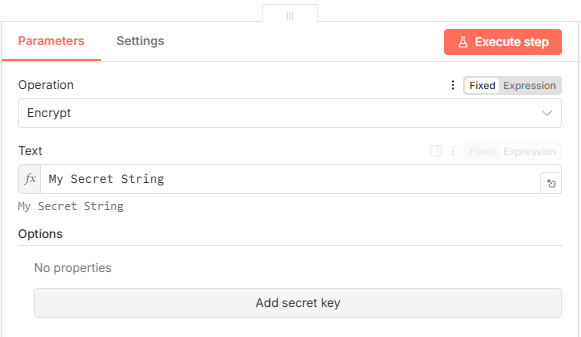
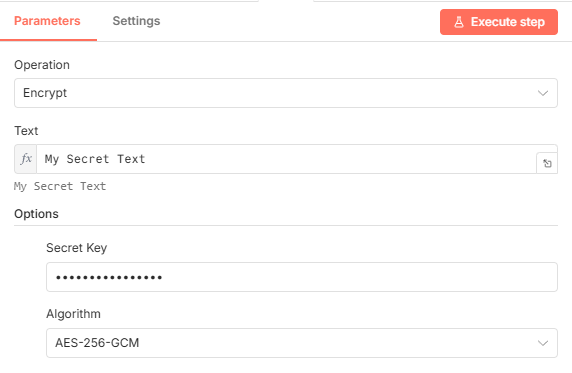
feat: add AES-256-GCM support and update README
Add options to choose algorithm AES-256-GCM and make it as default. GCM is considered more secure than CBC mode and is widely adopted for its performance

diff --git a/nodes/TextEncryptor/TextEncryptor.node.ts b/nodes/TextEncryptor/TextEncryptor.node.ts
@@ -1,8 +1,9 @@
 import type { IExecuteFunctions, INodeExecutionData, INodeType, INodeTypeDescription } from 'n8n-workflow';
 import { NodeConnectionTypes, NodeOperationError } from 'n8n-workflow';
-import { encryptString, decryptString } from './functions';
+import { encryptString, decryptString, Algorithm } from './functions';
 
 const DEFAULT_SECRET_KEY = 'FOmd23PkX0QxHJc7S59sEjg6FmaRmCef';
+const DEFAULT_ALGORITHM = 'aes-256-gcm';
 
 export class TextEncryptor implements INodeType {
 	description: INodeTypeDescription = {
@@ -32,13 +33,13 @@ export class TextEncryptor implements INodeType {
 						name: 'Encrypt',
 						value: 'encrypt',
 						description: 'Encrypt the provided text',
-						action: 'Encrypt the provided text',
+						action: 'Encrypt text',
 					},
 					{
 						name: 'Decrypt',
 						value: 'decrypt',
 						description: 'Decrypt the provided text',
-						action: 'Decrypt the provided text',
+						action: 'Decrypt text',
 					}
 				],
 				default: 'encrypt',
@@ -57,7 +58,7 @@ export class TextEncryptor implements INodeType {
 				displayName: 'Options',
 				name: 'options',
 				type: 'collection',
-				placeholder: 'Add secret key',
+				placeholder: 'Add options',
 				default: {},
 				options: [
 					{
@@ -71,6 +72,25 @@ export class TextEncryptor implements INodeType {
 						},
 						description: 'The secret key used for encryption/decryption. Must be the same for both operations. Leave empty to use default key',
 					},
+					{
+						displayName: 'Algorithm',
+						name: 'algorithm',
+						type: 'options',
+						options: [
+							{
+								name: 'AES-256-GCM',
+								value: 'aes-256-gcm',
+								description: 'AES with a 256-bit key in Galois/Counter Mode (GCM)',
+							},
+							{
+								name: 'AES-256-CBC',
+								value: 'aes-256-cbc',
+								description: 'AES with a 256-bit key in Cipher Block Chaining (CBC) mode',
+							},
+						],
+						default: 'aes-256-gcm',
+						description: 'The encryption algorithm to use. Must be the same for both encrypt and decrypt operations.',
+					}
 				]
 			},
 		],
@@ -81,18 +101,21 @@ export class TextEncryptor implements INodeType {
 
 		let item: INodeExecutionData;
 		let text: string;
+		let secretKey: string;
+		let algorithm: Algorithm;
 
 		const returnItems: INodeExecutionData[] = [];
-		const options = this.getNodeParameter('options', 0) as { secretKey?: string };
+		const options = this.getNodeParameter('options', 0) as { secretKey?: string, algorithm?: string };
 		const operation = this.getNodeParameter('operation', 0) as string;
-		const secretKey = options.secretKey || DEFAULT_SECRET_KEY;
 
 		for (let itemIndex = 0; itemIndex < items.length; itemIndex++) {
 			try {
 				text = this.getNodeParameter('text', itemIndex, '') as string;
+				secretKey = options.secretKey || DEFAULT_SECRET_KEY;
+				algorithm = options.algorithm as Algorithm || DEFAULT_ALGORITHM;
 				item = items[itemIndex];
 
-				const result = operation === 'encrypt' ? encryptString(text, secretKey) : decryptString(text, secretKey);
+				const result = operation === 'encrypt' ? encryptString(text, secretKey, algorithm) : decryptString(text, secretKey, algorithm);
 
 				item.json = {
 					original: text,
@@ -102,19 +125,19 @@ export class TextEncryptor implements INodeType {
 				returnItems.push(item);
 			} catch (error) {
 				// Enhance error messages for common issues
-				if (error.code === 'ERR_OSSL_BAD_DECRYPT' && operation === 'decrypt') {
-					error.message = 'Invalid secret key';
-				} else if (error.code === 'ERR_CRYPTO_INVALID_IV' && operation === 'decrypt') {
-					error.message = 'Encrypted text is invalid or corrupted.';
+				if (operation === 'decrypt') {
+					if (error.code === 'ERR_OSSL_BAD_DECRYPT' || error.code === 'ERR_CRYPTO_INVALID_IV' || error.message.includes('Unsupported state or unable to authenticate data')) {
+						error.message = 'Decryption failed. Incorrect secret key or corrupted/invalid encrypted text';
+					}
 				}
-				
+
 				if (this.continueOnFail()) {
 					returnItems.push({
 						json: { error: (error as Error).message },
 						pairedItem: { item: itemIndex },
 					});
 					continue;
-				} 
+				}
 
 				// Adding `itemIndex` allows other workflows to handle this error
 				if (error.context) {
@@ -123,7 +146,7 @@ export class TextEncryptor implements INodeType {
 					error.context.itemIndex = itemIndex;
 					throw error;
 				}
-				
+
 				throw new NodeOperationError(this.getNode(), error, {
 					itemIndex,
 				});

diff --git a/nodes/TextEncryptor/functions.ts b/nodes/TextEncryptor/functions.ts
@@ -1,26 +1,65 @@
 import { randomBytes, createCipheriv, createDecipheriv, createHash } from 'node:crypto';
 
-const ALGORITHM = 'aes-256-cbc';
+export type Algorithm = 'aes-256-gcm' | 'aes-256-cbc';
+
+export function encryptString(plainText: string, secretKey = '', algorithm: Algorithm) {
+    const key32bytes = forceTo32bytes(secretKey);
+    
+    if (algorithm === 'aes-256-cbc') {
+        const iv = randomBytes(16);
+        const cipher = createCipheriv(algorithm, key32bytes, iv);
+        let encrypted = cipher.update(plainText, 'utf8', 'hex');
+        encrypted += cipher.final('hex');
+        return iv.toString('hex') + encrypted;
+    }
+
+    // Default to aes-256-gcm
+    const iv = randomBytes(12); // GCM recommends a 12-byte (96-bit) IV for security and performance
+    const cipher = createCipheriv(algorithm, key32bytes, iv);
+    let ciphertext = cipher.update(plainText, 'utf8');
+    ciphertext = Buffer.concat([ciphertext, cipher.final()]);
+    const authTag = cipher.getAuthTag();
+    const combined = Buffer.concat([iv, ciphertext, authTag]);
+    return combined.toString('hex');
+}
+
+export function decryptString(encryptedText: string, secretKey = '', algorithm: Algorithm) {
+    const key32bytes = forceTo32bytes(secretKey);
+    const combined = Buffer.from(encryptedText, 'hex');
+
+    if (algorithm === 'aes-256-cbc') {
+        const iv = combined.subarray(0, 16);
+        const encryptedTextBuffer = combined.subarray(16);
+        const decipher = createDecipheriv(algorithm, key32bytes, iv);
+        const decryptedBuffer = Buffer.concat([
+            decipher.update(encryptedTextBuffer),
+            decipher.final()
+        ]);
+        return decryptedBuffer.toString('utf8');
+    }
+
+    // Default to aes-256-gcm
+    // Define lengths
+    const ivLength = 12; // 12 bytes for IV
+    const authTagLength = 16; // GCM auth tag is typically 16 bytes (128 bits)
+
+    // Slice the buffer to get IV, ciphertext, and auth tag
+    const iv = combined.subarray(0, ivLength);
+    const ciphertext = combined.subarray(ivLength, combined.length - authTagLength);
+    const authTag = combined.subarray(combined.length - authTagLength);
+
+    const decipher = createDecipheriv(algorithm, key32bytes, iv);
+    // Set the authentication tag before decryption
+    decipher.setAuthTag(authTag);
+
+    // Decrypt the ciphertext
+    let plaintext = decipher.update(ciphertext);
+    plaintext = Buffer.concat([plaintext, decipher.final()]);
+
+    return plaintext.toString('utf8');
+}
 
 // Force the key to be 32 bytes regardless of user input
 function forceTo32bytes(key: string) {
-    return createHash('sha256').update(key).digest(); 
-}
-
-export function encryptString(text: string, secretKey = '') {
-    const iv = randomBytes(16);
-    const cipher = createCipheriv(ALGORITHM, forceTo32bytes(secretKey), iv);
-    let encrypted = cipher.update(text, 'utf8', 'hex');
-    encrypted += cipher.final('hex');
-    return iv.toString('hex') + ':' + encrypted;
-}
-
-export function decryptString(encryptedText: string, secretKey = '') {
-    const textParts = encryptedText.split(':');
-    const ivHex = textParts.shift();
-    const iv = Buffer.from(ivHex as string, 'hex');
-    const encryptedData = Buffer.from(textParts.join(':'), 'hex');
-    const decipher = createDecipheriv(ALGORITHM, forceTo32bytes(secretKey), iv);
-    const decryptedBuffer = Buffer.concat([decipher.update(encryptedData), decipher.final()]);
-    return decryptedBuffer.toString('utf8');
+    return createHash('sha256').update(key).digest();
 }

diff --git a/README.md b/README.md
@@ -1,6 +1,6 @@
 # n8n-nodes-text-encrypt
 
-This is an n8n community node. It lets you encrypt and decrypt text using node crypto module with AES-256-CBC algorithm.
+This is an n8n community node. It lets you encrypt and decrypt text using built in node.js crypto module. There are two algorithms available: `AES-256-GCM` or `AES-256-CBC`.
 
 ## Installation
 
@@ -18,5 +18,6 @@ Follow the [installation guide](https://docs.n8n.io/integrations/community-nodes
 
 3. Provide the text to be processed.
 4. Provide the secret key _(optional, leave empty to use the default key)_.
-5. For decryption, provide the same secret key used for encryption.
-6. Connect the node to other nodes as needed in your workflow.
+5. Select the algorithm: `AES-256-GCM` _(default)_ or `AES-256-CBC`.
+6. For decryption, provide the same secret key and algorithm used for encryption.
+7. Connect the node to other nodes as needed in your workflow.
